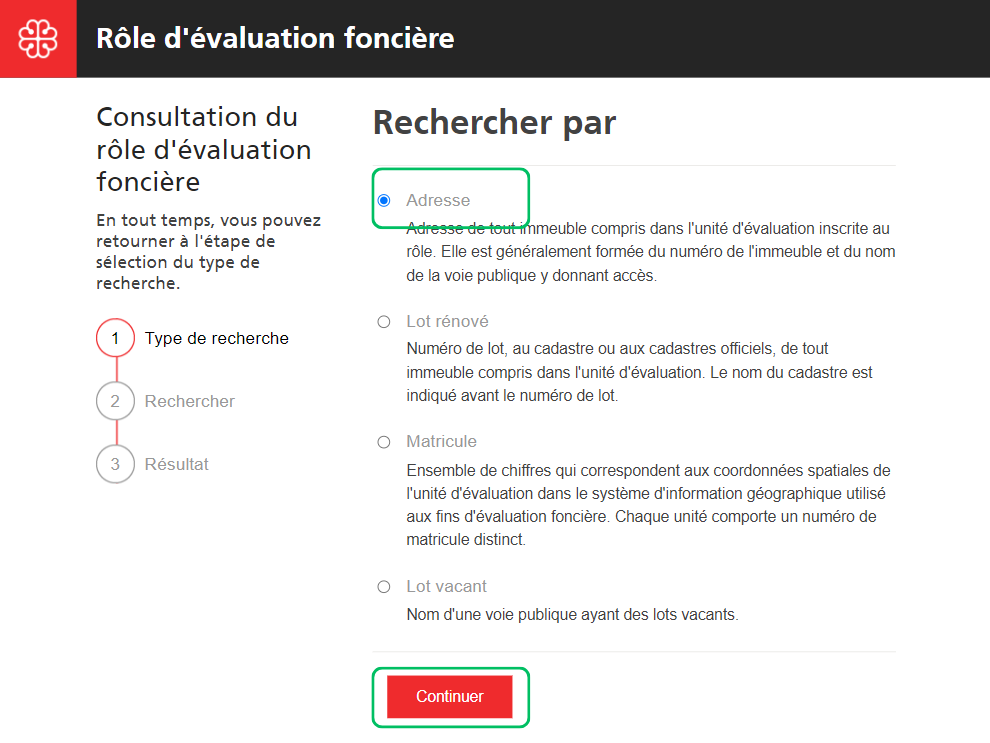
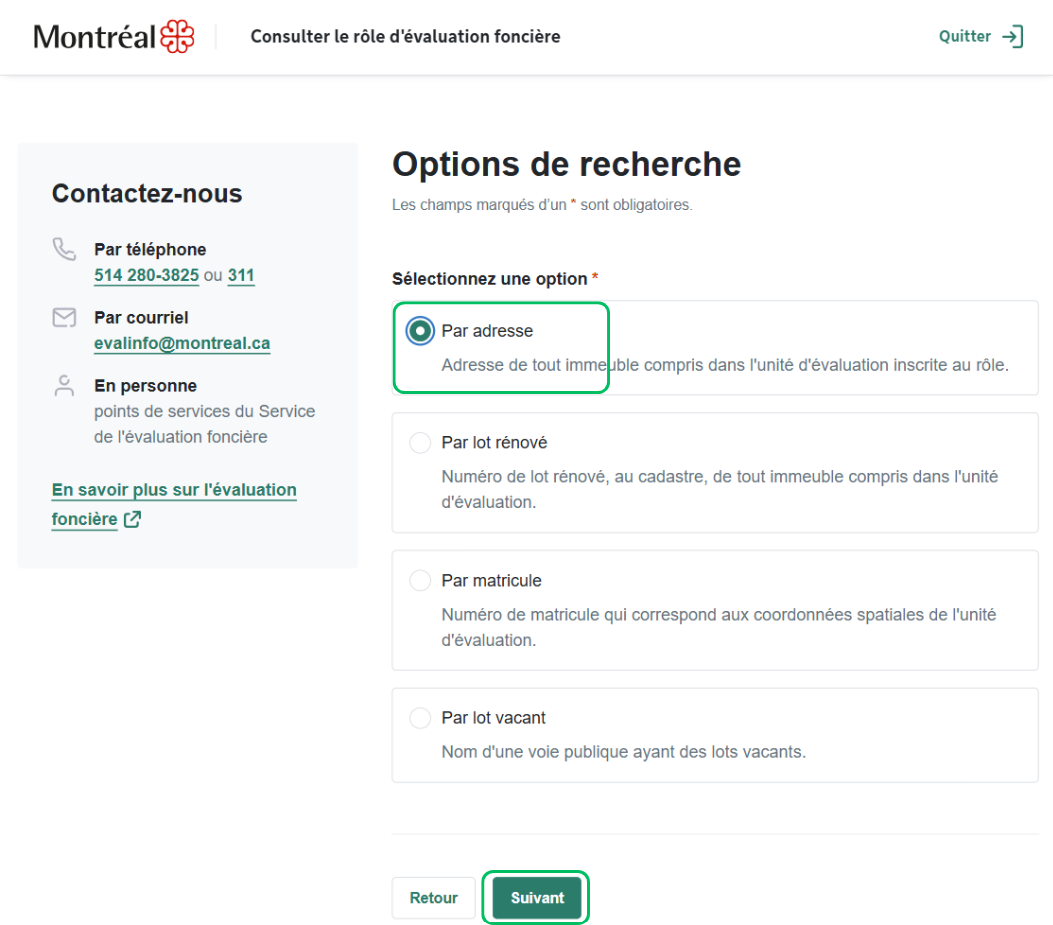
update for 2025

diff --git a/rent-increase-calculator/src/i18n.js b/rent-increase-calculator/src/i18n.js
@@ -44,8 +44,8 @@ i18n
               "This tool is for you if you live in Montreal, rent an apartment and have received a notice of rent increase from your landlord.",
             line2:
               "You can check if the increase suggested by the landlord is in line with",
-            link: "https://www.tal.gouv.qc.ca/en/news/detail?code=calculation-of-the-2024-rent-adjustment",
-            linkTitle: "2024's guidelines",
+            link: "https://www.tal.gouv.qc.ca/en/news/detail?code=calculation-of-the-2025-rent-adjustment",
+            linkTitle: "2025's guidelines",
             line3:
               "which have been published by Tribunal administratif du logement (TAL) and which define what counts as a fair and reasonable rent increase.",
             line4:
@@ -74,10 +74,10 @@ i18n
             line5: "If you need help,",
             line5a: "contact your local housing committee",
             line5b: ". Click",
-            link2: "https://rclalq.qc.ca/en/housing-committees/",
+            link2: "https://rclalq.qc.ca/en/housing-committee/",
             linkTitle2: "here",
             line6: "to find the one that is the closest to you.",
-            line7: "This tool is based on 2024's estimation sheet created by",
+            line7: "This tool is based on 2025's estimation sheet created by",
             line8: "You can download this estimation sheet as a ",
             line9: "or",
             line10: "file.",
@@ -111,18 +111,19 @@ i18n
             info: "How much did your landlord spend on major repairs in your dwelling specifically? This may involve work aimed at renovating a bathroom or a kitchen, replacement of cabinets.",
           },
           municipalTaxTwoYearsAgo: {
-            label: "Municipal tax for 2023",
+            label: "Municipal tax for 2024",
           },
           municipalTaxLastYear: {
-            label: "Municipal tax for 2024",
+            label: "Municipal tax for 2025",
           },
           municipalTaxModal: {
             button: "How do I find these amounts?",
 
             modalTexts: [
-              'In order to verify how the municipal taxes have changed for your building, go to the website of <a target="_blank" href="https://servicesenligne2.ville.montreal.qc.ca/sel/evalweb/index">Rôle d\'évaluation foncière</a>. Pick “Addresse” and then “Continuer.”',
-              "On the following page enter your address. The website is not available in English, but you can translate it using Google Translate.",
-              "Go to the bottom of the page and click on “Compte de taxes” for both 2024 and 2023. These will open PDF documents.",
+              'In order to verify how the municipal taxes have changed for your building, go to the website of <a target="_blank" href="https://montreal.ca/role-evaluation-fonciere">Rôle d\'évaluation foncière</a>. Pick “Par adresse” and then “Suivant”.',
+              "On the following page enter your address. The website is not available in English, but you can translate it using Google Translate. Click “Rechercher”.",
+              "Click on the green arrow to the right of the address that matches yours in the list.",
+              "Go to the bottom of the page and click on “Compte de taxes” for both 2025 and 2024. These will open PDF documents.",
               "Copy the number labelled “Total du compte” in the bottom right of the table on the first page. Once you've found it in both PDFs, click “Close” and enter those numbers in the fields of the calculator.<br/><br/>Enter the numbers for the whole building. Do not try to calculate the part just for your dwelling (the tool will do that automatically).",
             ],
           },
@@ -132,10 +133,10 @@ i18n
           },
           required: "Required field",
           schoolTaxTwoYearsAgo: {
-            label: "School tax for 2022-2023",
+            label: "School tax for 2023-2024",
           },
           schoolTaxLastYear: {
-            label: "School tax for 2023-2024",
+            label: "School tax for 2024-2025",
           },
           schoolTaxModal: {
             button: "How do I find these amounts?",
@@ -202,7 +203,7 @@ i18n
             linkTitle2: "ici",
             line6: "pour trouver celui qui est le plus proche de chez vous.",
             line7:
-              "Cet outil s'appuie sur la fiche d'estimation 2024 réalisée par",
+              "Cet outil s'appuie sur la fiche d'estimation 2025 réalisée par",
             line8:
               "Vous pouvez télécharger cette fiche d'estimation sous forme du fichier ",
             line9: "ou",
@@ -213,9 +214,9 @@ i18n
               "Cet outil s'adresse à vous si vous habitez Montréal, louez un appartement et avez reçu un avis d'augmentation de loyer de votre propriétaire.",
             line2:
               "Vous pouvez vérifier si l'augmentation proposée par le propriétaire est conforme aux",
-            link: "https://www.tal.gouv.qc.ca/fr/actualites/detail?code=le-calcul-de-l-ajustement-des-loyers-en-2024",
+            link: "https://www.tal.gouv.qc.ca/fr/actualites/detail?code=le-calcul-de-l-ajustement-des-loyers-en-2025",
             linkTitle:
-              "directives du Tribunal administratif du logement (TAL) pour 2024",
+              "directives du Tribunal administratif du logement (TAL) pour 2025",
             line3:
               "qui définissent ce qui constitue une augmentation de loyer juste et raisonnable.",
             line4:
@@ -254,26 +255,27 @@ i18n
           modalTaxMunicipal: {
             button: "Comment trouver ces montants ?",
             modalTexts: [
-              'Pour connaître la modification de la taxe municipale pour votre immeuble, rendez-vous sur le site du <a target="_blank" rel="noopener noreferrer" href="https://servicesenligne2.ville.montreal.qc.ca/sel/evalweb/">Rôle d\'évaluation foncière</a> de Montréal. Choisissez “Addresse” et ensuite “Continuer.”',
-              "Entrez votre adresse sur la page suivante.",
-              "Allez  au bas de la page et cliquez sur “Compte de taxes” pour 2024 et 2023. Ces documents s'ouvriront en format PDF.",
+              'Pour connaître la modification de la taxe municipale pour votre immeuble, rendez-vous sur le site du <a target="_blank" rel="noopener noreferrer" href="https://montreal.ca/role-evaluation-fonciere">Rôle d\'évaluation foncière</a> de Montréal. Choisissez “Par adresse” et ensuite “Suivant.”',
+              "Entrez votre adresse sur la page suivante. Cliquez “Rechercher.”",
+              "Cliquez sur la flèche verte à droite de l'adresse qui correspond à la vôtre dans la liste.",
+              "Allez  au bas de la page et cliquez sur “Compte de taxes” pour 2025 et 2024. Ces documents s'ouvriront en format PDF.",
               "Copiez le chiffre intitulé “total du compte”, en bas à droite du tableau de la première page. Une fois que vous l'avez trouvé dans les deux PDF, cliquez sur “Fermez” et entrez ces chiffres dans les champs de l'outil.<br/><br/>Entrez les chiffres pour l'ensemble du bâtiment, n'essayez pas de calculer la partie uniquement pour votre logement (l'outil le fera automatiquement).",
             ],
           },
           modalTaxScolaire: {
             button: "Comment trouver ces montants ?",
             modalTexts: [
-              'Pour connaître la modification de la taxe scolaire de l\'immeuble, rendez-vous sur le site du <a target="_blank" rel="noopener noreferrer" href="https://tfp.cgtsim.qc.ca/asp/tfp.aspx">Comité de gestion de la taxe scolaire</a>. Cliquez sur “Consultez les données”.',
+              'Pour connaître la modification de la taxe scolaire de l\'immeuble, rendez-vous sur le site du <a target="_blank" rel="noopener noreferrer" href="https://tfp.cgtsim.qc.ca/asp/TFP.aspx?jlsid=1&jlrun=tfpint.general.Accueil&site=int">Comité de gestion de la taxe scolaire</a>. Cliquez sur “Consulter les données”.',
               "Entrez votre adresse sur la page suivante.",
               "Cliquez sur l'icone de facture.",
-              "Copiez les deux premiers chiffres de la colonne “Montant”, signifiant les montants des taxes scolaires pour les années 2023-2024 et 2022-2023. Ensuite cliquez sur “Fermez” et entrez ces chiffres dans les champs de l'outil. <br/><br/>Entrez les chiffres pour l'ensemble du bâtiment, n'essayez pas de calculer la partie uniquement pour votre logement (l'outil le fera automatiquement).",
+              "Copiez les deux premiers chiffres de la colonne “Montant”, signifiant les montants des taxes scolaires pour les années 2024-2025 et 2023-2024. Ensuite cliquez sur “Fermez” et entrez ces chiffres dans les champs de l'outil. <br/><br/>Entrez les chiffres pour l'ensemble du bâtiment, n'essayez pas de calculer la partie uniquement pour votre logement (l'outil le fera automatiquement).",
             ],
           },
           municipalTaxTwoYearsAgo: {
-            label: "Taxe municipale pour l’année 2023",
+            label: "Taxe municipale pour l’année 2024",
           },
           municipalTaxLastYear: {
-            label: "Taxe municipale pour l’année 2024",
+            label: "Taxe municipale pour l’année 2025",
           },
           rent: {
             label: "Quel est votre loyer mensuel actuel ?",
@@ -283,10 +285,10 @@ i18n
 
           required: "Champ obligatoire",
           schoolTaxTwoYearsAgo: {
-            label: "Taxe scolaire pour l’année 2022-2023",
+            label: "Taxe scolaire pour l’année 2023-2024",
           },
           schoolTaxLastYear: {
-            label: "Taxe scolaire pour l’année 2023-2024",
+            label: "Taxe scolaire pour l’année 2024-2025",
           },
           title: "OUTIL D'ESTIMATION DE HAUSSE DE LOYER",
         },

diff --git a/rent-increase-calculator/src/components/RentFormModal.js b/rent-increase-calculator/src/components/RentFormModal.js
@@ -1,6 +1,6 @@
 import ReactDom from "react-dom";
 import { CarouselItem } from "./CarouselItem";
-import React, { useRef } from "react";
+import React, {  useRef } from "react";
 import { IoIosArrowBack } from "react-icons/io";
 import { IoIosArrowForward } from "react-icons/io";
 import Slider from "react-slick";
@@ -61,7 +61,7 @@ export default function RentFormModal({ open, onClose, modalContent }) {
   return ReactDom.createPortal(
     <>
       <div onClick={onClose} className="overlay" style={OVERLAY_STYLES} />
-      <div className = "modal" style={MODAL_STYLES}>
+      <div className="modal" style={MODAL_STYLES}>
         <div className="flex justify-end">
           <button
             className="flex items-center gap-1 px-4 py-2 font-semibold text-white bg-emerald-700 rounded-md hover:bg-emerald-800"
@@ -97,15 +97,17 @@ export default function RentFormModal({ open, onClose, modalContent }) {
             </div>
             {t("buttons.previous")}
           </button>
-          <button
-            className="flex items-center justify-between px-4 py-2 font-semibold text-white bg-emerald-400 rounded-md hover:bg-emerald-800"
-            onClick={handleNextSlide}
-          >
-            {t("buttons.next")}
-            <div className="pl-2">
-              <IoIosArrowForward />
-            </div>
-          </button>
+        
+            <button
+              className="flex items-center justify-between px-4 py-2 font-semibold text-white bg-emerald-400 rounded-md hover:bg-emerald-800"
+              onClick={handleNextSlide}
+            >
+              {t("buttons.next")}
+              <div className="pl-2">
+                <IoIosArrowForward />
+              </div>
+            </button>
+          
         </div>
       </div>
     </>,

diff --git a/rent-increase-calculator/src/App.js b/rent-increase-calculator/src/App.js
@@ -74,13 +74,13 @@ export default function App() {
           {t("footer.line3")}&nbsp;
           <b>{t("footer.line4")}</b>
         </div>
-        <div className="mb-4">
+         <div className="mb-4">
           {t("footer.line5")}&nbsp;<b>{t("footer.line5a")}</b>{t("footer.line5b")}&nbsp;
           <a target="_blank" href={t("footer.link2")}>
             {t("footer.linkTitle2")}
           </a>{" "}
           {t("footer.line6")}
-        </div>
+        </div>{/*
         <div className="mb-24">
           {t("footer.line7")}&nbsp;
           <a target="_blank" href="https://clpmr.com/">
@@ -110,7 +110,7 @@ export default function App() {
           </a>
           &nbsp;{t("footer.line10")}
           <br />
-        </div>
+        </div>*/}
         <div className="mb-4 flex-column text-sm justify-center italic">
           <div className="w-full mb-4">  <hr className="mt-6 bg-emerald-900" /></div>
         

diff --git a/rent-increase-calculator/src/RentForm.js b/rent-increase-calculator/src/RentForm.js
@@ -106,10 +106,10 @@ export const RentForm = () => {
 
   const { t, i18n } = useTranslation();
   const selectOptions = [
-    { type: "self", value: 0.04 },
-    { type: "electricity", value: 0.04 },
-    { type: "gas", value: 0.033 },
-    { type: "oil", value: 0.016 },
+    { type: "self", value: 0.059 },
+    { type: "electricity", value: 0.055 },
+    { type: "gas", value: 0.05 },
+    { type: "oil", value: 0.041 },
   ];
 
   const [rentIncrease, setRentIncrease] = useState(0);

diff --git a/rent-increase-calculator/src/App.css b/rent-increase-calculator/src/App.css
@@ -33,8 +33,11 @@
 
 .slick-slider {
   width: 90vw;
-
   box-sizing: border-box;
+}
+
+.slick-slider img {
+  object-fit: contain; 
 }
 
 .slick-prev:before,
